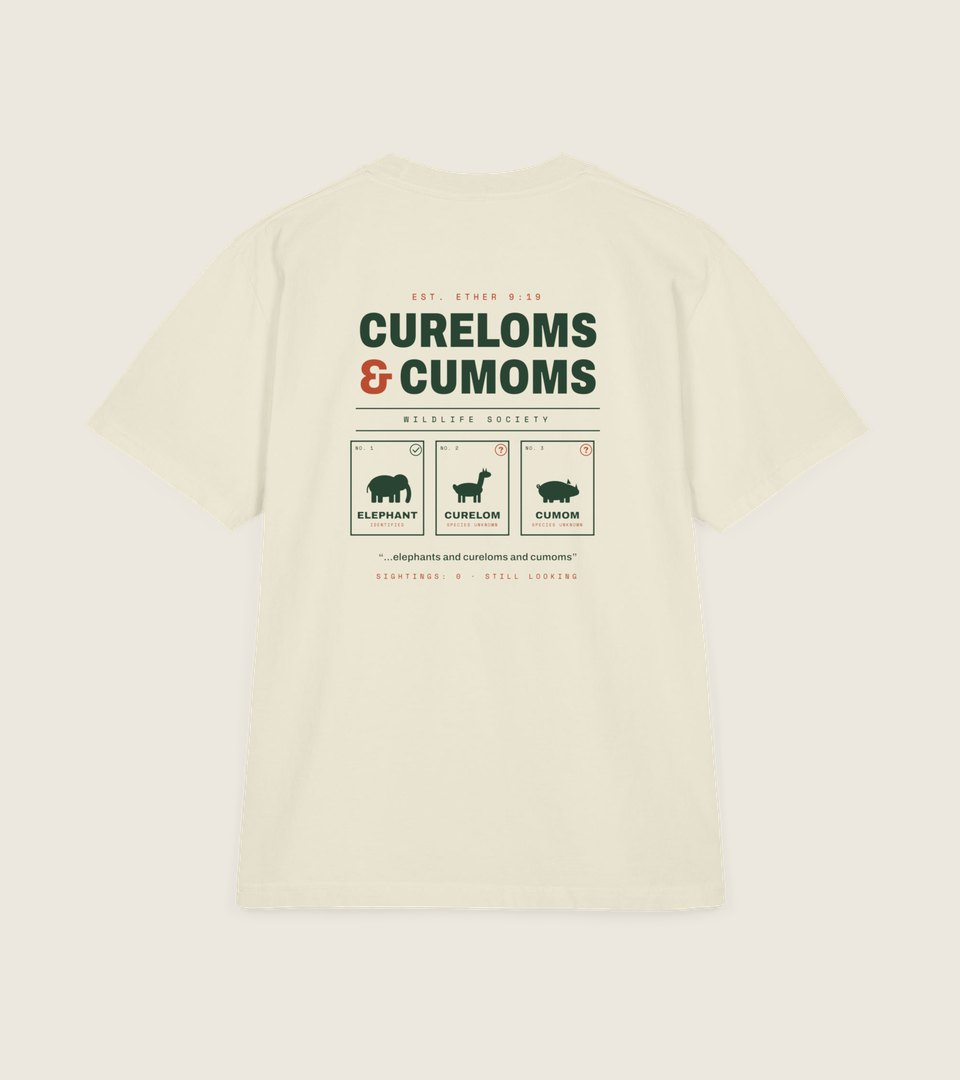
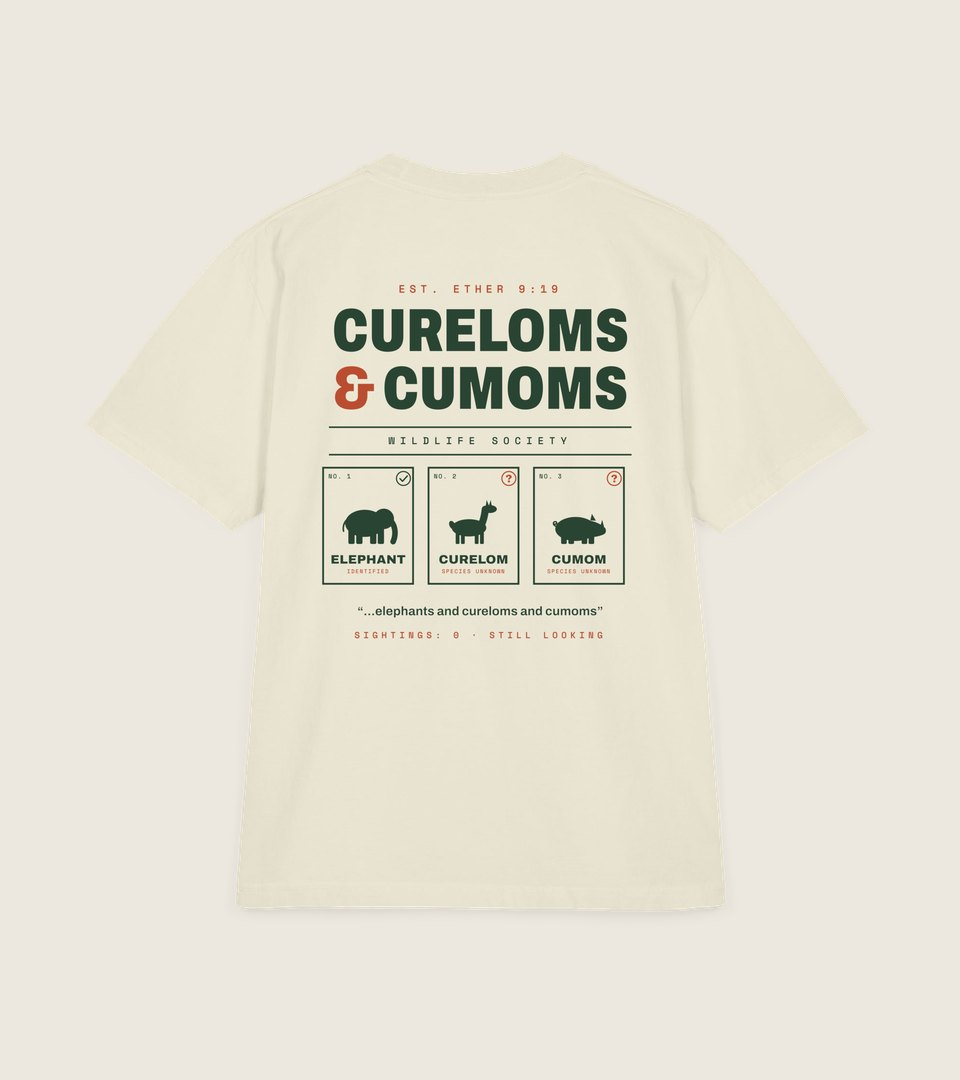
Bigger back prints and Glazed Green Stripling on the new design
Brings PR #5 onto the redesigned site:
- New Printful mockup photos showing the ~13 in wide back prints
  (already set in Printful: Liberty 13.2x10.25, Cureloms 13.2x15.47,
  Stripling 13.2x11.26 in).
- Stripling 2000 is now the Stanley/Stella Freestyler in Glazed Green:
  checkout uses the "Stripling 2000 Tee (Green)" Printful variant IDs
  (checked against Printful), and color, fit and blank text is updated on
  the home, About, terms and policies pages and llms.txt.

Claude-Session: https://claude.ai/code/session_01KgABHrvNHGy3TN6boPUamt

Changed region(s): [[0.3438, 0.2444, 0.6562, 0.5806]]

diff --git a/public/index.html b/public/index.html
@@ -112,7 +112,7 @@
       "@type": "Product",
       "@id": "https://rentcoat.co/#stripling",
       "name": "Stripling 2000 Heavyweight Tee",
-      "description": "Varsity-style back print of the 2,000 stripling warriors with the quote \"We do not doubt our mothers knew it\" (Alma 56:48). Shaka Wear SHGDD heavyweight garment-dyed cotton in Black.",
+      "description": "Varsity-style back print of the 2,000 stripling warriors with the quote \"We do not doubt our mothers knew it\" (Alma 56:48). Stanley/Stella Freestyler heavyweight organic cotton in Glazed Green.",
       "image": [
         "https://rentcoat.co/images/stripling-back.jpg",
         "https://rentcoat.co/images/stripling-front.jpg"
@@ -120,7 +120,7 @@
       "brand": {
         "@id": "https://rentcoat.co/#org"
       },
-      "color": "Black",
+      "color": "Glazed Green",
       "material": "100% cotton",
       "offers": {
         "@type": "Offer",
@@ -309,7 +309,7 @@
           "name": "How do Rent Coat Co. tees fit?",
           "acceptedAnswer": {
             "@type": "Answer",
-            "text": "They are Shaka Wear SHGDD tees: 7.5 oz heavyweight cotton, garment-dyed, with a boxy, oversized, drop-shoulder fit. Sizes S to 2XL. Order your usual size for the boxy look, or size down for a closer fit. A medium is about 24 3/4 inches across the chest and 27 1/4 inches long."
+            "text": "Title of Liberty and Cureloms & Cumoms are Shaka Wear SHGDD tees: 7.5 oz heavyweight cotton, garment-dyed, with a boxy, oversized, drop-shoulder fit. Order your usual size for the boxy look, or size down for a closer fit. A medium is about 24 3/4 inches across the chest and 27 1/4 inches long. Stripling 2000 is a Stanley/Stella Freestyler in Glazed Green: 7 oz heavyweight organic cotton with a classic, true-to-size fit. A medium is about 22 3/4 inches across the chest and 30 inches long. All shirts come in S to 2XL."
           }
         },
         {
@@ -737,8 +737,8 @@ footer .wrap { padding-block: 56px 40px }
     </article>
     <article class="card" id="stripling">
       <div class="shot">
-        <img src="images/stripling-back.jpg" width="1600" height="1800" loading="lazy" alt="Stripling 2000 tee in Black, back print">
-        <img class="alt" src="images/stripling-front.jpg" width="1600" height="1800" loading="lazy" alt="Stripling 2000 tee in Black, front chest print">
+        <img src="images/stripling-back.jpg" width="1600" height="1800" loading="lazy" alt="Stripling 2000 tee in Glazed Green, back print">
+        <img class="alt" src="images/stripling-front.jpg" width="1600" height="1800" loading="lazy" alt="Stripling 2000 tee in Glazed Green, front chest print">
         <span class="tag eyebrow">Varsity</span>
         <div class="flip" role="group" aria-label="Show side">
           <button type="button" aria-pressed="true" data-side="back">Back</button>
@@ -747,7 +747,7 @@ footer .wrap { padding-block: 56px 40px }
       </div>
       <div class="info">
         <div class="row"><h3>Stripling 2000</h3><span class="price">$40</span></div>
-        <span class="eyebrow meta"><span class="swatch"><i style="background:#1B1B1B" aria-hidden="true"></i>Black</span><a class="ref" href="https://www.churchofjesuschrist.org/study/scriptures/bofm/alma/56?lang=eng&amp;id=p48#p48" target="_blank" rel="noopener">Alma 56:48</a></span>
+        <span class="eyebrow meta"><span class="swatch"><i style="background:#1C4644" aria-hidden="true"></i>Glazed Green</span><a class="ref" href="https://www.churchofjesuschrist.org/study/scriptures/bofm/alma/56?lang=eng&amp;id=p48#p48" target="_blank" rel="noopener">Alma 56:48</a></span>
         <p class="blurb">Varsity arch in cream and gold for the 2,000 young warriors. “We do not doubt our mothers knew it.”</p>
         <div class="size-wrap">
           <fieldset class="sizes"><legend>Size</legend><label><input type="radio" name="size-stripling" value="S"><span>S</span></label><label><input type="radio" name="size-stripling" value="M" checked><span>M</span></label><label><input type="radio" name="size-stripling" value="L"><span>L</span></label><label><input type="radio" name="size-stripling" value="XL"><span>XL</span></label><label><input type="radio" name="size-stripling" value="2XL"><span>2XL</span></label></fieldset>
@@ -815,16 +815,16 @@ footer .wrap { padding-block: 56px 40px }
   <div class="intro">
     <p class="eyebrow kicker">The blank</p>
     <h2 class="big" id="fit-title">Fit <em>&amp;</em> feel</h2>
-    <p>Boxy and oversized with dropped shoulders and a slightly shorter body. Order your usual size for the boxy look, or size down for a closer fit.</p>
+    <p>Title of Liberty and Cureloms &amp; Cumoms are boxy and oversized, with dropped shoulders and a slightly shorter body: order your usual size for the boxy look, or size down for a closer fit. Stripling 2000 has a classic, true-to-size fit.</p>
   </div>
   <dl class="specs">
-    <div><dt>Blank</dt><dd>Shaka Wear SHGDD</dd></div>
-    <div><dt>Weight</dt><dd>7.5 oz, 100% cotton</dd></div>
-    <div><dt>Finish</dt><dd>Garment-dyed, worn-in feel</dd></div>
+    <div><dt>Liberty &amp; Cureloms</dt><dd>Shaka Wear SHGDD · 7.5 oz cotton, garment-dyed</dd></div>
+    <div><dt>Stripling 2000</dt><dd>Stanley/Stella Freestyler · 7 oz organic cotton</dd></div>
+    <div><dt>Boxy fit · medium</dt><dd>24¾ in chest · 27¼ in long</dd></div>
+    <div><dt>Classic fit · medium</dt><dd>22¾ in chest · 30 in long</dd></div>
+    <div><dt>Back prints</dt><dd>About 13 in wide</dd></div>
     <div><dt>Sizes</dt><dd>Unisex S – 2XL</dd></div>
-    <div><dt>Medium</dt><dd>24¾ in chest · 27¼ in long</dd></div>
     <div><dt>Care</dt><dd>Inside out, cold wash, tumble dry low. Don't iron the print.</dd></div>
-    <div><dt>Made</dt><dd>Blank assembled in the USA from globally sourced materials</dd></div>
     <div><dt>Price</dt><dd>$40 · $43 for 2XL</dd></div>
   </dl>
 </div></section>
@@ -842,7 +842,7 @@ footer .wrap { padding-block: 56px 40px }
     <details><summary>Why can't I order on Sunday?</summary><p>Checkout pauses on Sundays (Eastern time) while a drop is open, because we keep Sunday as a day of rest. Your bag stays saved, so you can check out on Monday.</p></details>
     <details><summary>How do I pay?</summary><p>Checkout runs on Stripe, so you can pay with any major card, Apple Pay or Google Pay. Your card details go straight to Stripe and never touch our site. Tees are $40 ($43 for 2XL), and shipping is a flat $5.99 in the US.</p></details>
     <details><summary>What's a curelom?</summary><p>Nobody knows. Ether 9:19 lists cureloms and cumoms with elephants as animals that were useful to the Jaredites, and that's all the text says. Hence the Wildlife Society.</p></details>
-    <details><summary>How do the shirts fit?</summary><p>Boxy and oversized, with dropped shoulders and a slightly shorter body. Sizes S to 2XL. Order your usual size for the boxy look, or size down for a closer fit. A medium is about 24¾ inches across the chest and 27¼ inches long.</p></details>
+    <details><summary>How do the shirts fit?</summary><p>Title of Liberty and Cureloms &amp; Cumoms are boxy and oversized, with dropped shoulders and a slightly shorter body. Order your usual size for the boxy look, or size down for a closer fit. A medium is about 24¾ inches across the chest and 27¼ inches long. Stripling 2000 has a classic, true-to-size fit: order your usual size. A medium is about 22¾ inches across the chest and 30 inches long. All shirts come in S to 2XL.</p></details>
     <details><summary>Where does the name come from?</summary><p>From Alma 46:12–13 in the Book of Mormon. Captain Moroni “rent his coat,” wrote on it, fastened it to a pole, and called it the title of liberty.</p></details>
     <details><summary>Can I return or exchange?</summary><p>Because every shirt is printed for you, we can't take fit returns. If your shirt arrives damaged or misprinted, email a photo to <a href="mailto:rentcoat.co@gmail.com">rentcoat.co@gmail.com</a> within 30 days of delivery and we'll replace it free. <a href="policies.html">Shipping and returns</a>.</p></details>
   </div>
@@ -913,7 +913,7 @@ let closedSundays = true;
 
 const PRODUCTS = [
   { id: "liberty", name: "Title of Liberty", color: "Shadow", back: "images/liberty-back.jpg" },
-  { id: "stripling", name: "Stripling 2000", color: "Black", back: "images/stripling-back.jpg" },
+  { id: "stripling", name: "Stripling 2000", color: "Glazed Green", back: "images/stripling-back.jpg" },
   { id: "cureloms", name: "Cureloms & Cumoms", color: "Cream", back: "images/cureloms-back.jpg" },
 ];
 const SIZES = ["S", "M", "L", "XL", "2XL"];

diff --git a/public/about.html b/public/about.html
@@ -184,13 +184,13 @@ footer span { margin-left: auto }
 <section class="shirts-sec" id="shirts" aria-labelledby="shirts-title"><div class="wrap">
   <div class="head">
     <div><p class="eyebrow kicker">The shirts</p><h2 class="big" id="shirts-title">Every one starts with a verse</h2></div>
-    <p>Every Rent Coat Co. tee is a Shaka Wear SHGDD: 7.5 oz heavyweight cotton, garment-dyed for a broken-in feel, with a boxy, oversized, drop-shoulder fit in S to 2XL. Each shirt is printed for you after the drop closes.</p>
+    <p>Title of Liberty and Cureloms &amp; Cumoms are Shaka Wear SHGDD tees: 7.5 oz heavyweight cotton, garment-dyed, with a boxy, oversized, drop-shoulder fit. Stripling 2000 is a Stanley/Stella Freestyler in Glazed Green: 7 oz heavyweight organic cotton with a classic fit. All come in S to 2XL, and each shirt is printed for you after the drop closes.</p>
   </div>
   <ul class="shirts">
     <li><div class="pic"><img src="/images/liberty-back.jpg" width="1600" height="1800" loading="lazy" alt="Title of Liberty tee in Shadow, back print of a torn banner on a pole"></div>
       <div class="txt"><p class="eyebrow"><a href="https://www.churchofjesuschrist.org/study/scriptures/bofm/alma/46?lang=eng&amp;id=p12#p12" target="_blank" rel="noopener">Alma 46:12</a> · Shadow</p><h3>Title of Liberty</h3><p class="d">The flagship. A torn banner on a pole.</p></div></li>
-    <li><div class="pic"><img src="/images/stripling-back.jpg" width="1600" height="1800" loading="lazy" alt="Stripling 2000 tee in Black, varsity-style back print"></div>
-      <div class="txt"><p class="eyebrow"><a href="https://www.churchofjesuschrist.org/study/scriptures/bofm/alma/56?lang=eng&amp;id=p48#p48" target="_blank" rel="noopener">Alma 56:48</a> · Black</p><h3>Stripling 2000</h3><p class="d">Varsity print for the 2,000 stripling warriors: "We do not doubt our mothers knew it."</p></div></li>
+    <li><div class="pic"><img src="/images/stripling-back.jpg" width="1600" height="1800" loading="lazy" alt="Stripling 2000 tee in Glazed Green, varsity-style back print"></div>
+      <div class="txt"><p class="eyebrow"><a href="https://www.churchofjesuschrist.org/study/scriptures/bofm/alma/56?lang=eng&amp;id=p48#p48" target="_blank" rel="noopener">Alma 56:48</a> · Glazed Green</p><h3>Stripling 2000</h3><p class="d">Varsity print for the 2,000 stripling warriors: "We do not doubt our mothers knew it."</p></div></li>
     <li><div class="pic"><img src="/images/cureloms-back.jpg" width="1600" height="1800" loading="lazy" alt="Cureloms and Cumoms Wildlife Society tee in Cream, field-guide back print"></div>
       <div class="txt"><p class="eyebrow"><a href="https://www.churchofjesuschrist.org/study/scriptures/bofm/ether/9?lang=eng&amp;id=p19#p19" target="_blank" rel="noopener">Ether 9:19</a> · Cream</p><h3>Cureloms &amp; Cumoms Wildlife Society</h3><p class="d">A field guide to the animals nobody can identify.</p></div></li>
   </ul>

diff --git a/public/terms.html b/public/terms.html
@@ -136,7 +136,7 @@ a { color: inherit }
   <p>Every shirt is made to order, so we don't take returns or exchanges for fit or a change of mind. If your shirt arrives damaged, misprinted, or isn't what you ordered, email a photo within 30 days of delivery and we'll replace it free, or refund you if we can't. This doesn't limit any rights you have under the law.</p>
 
   <h2 id="products">About the shirts</h2>
-  <p>Our tees are Shaka Wear SHGDD: 100% cotton, assembled in the USA from globally sourced materials, and printed to order. They're garment-dyed, so each shirt's color can vary a little, and colors on your screen may look different in person. The fit is boxy and oversized; use the fit notes on the site.</p>
+  <p>Title of Liberty and Cureloms &amp; Cumoms are Shaka Wear SHGDD tees: 100% cotton, assembled in the USA from globally sourced materials, and garment-dyed, so each shirt's color can vary a little. Their fit is boxy and oversized. Stripling 2000 is a Stanley/Stella Freestyler: 100% organic cotton with a classic fit. Every shirt is printed to order, and colors on your screen may look different in person. Use the fit notes on the site.</p>
 
   <h2 id="designs">Our designs</h2>
   <p>The Rent Coat Co. name, logo, shirt designs, photos and text on this site belong to Rent Coat Co. Please don't copy, print, or sell them without our written permission. Sharing photos of your shirt and tagging us is always welcome.</p>

diff --git a/public/policies.html b/public/policies.html
@@ -114,7 +114,7 @@ a { color: inherit }
   <p>Until the drop closes, email us to change your size or address, or to cancel for a full refund. After it closes, your shirt goes to print and the order can't be changed or cancelled, though we can still update the address until it ships.</p>
 
   <h2 id="returns">Returns and replacements</h2>
-  <p>Because every shirt is made to order, we can't take returns or exchanges for fit or a change of mind. Check the fit notes before you order: the tees are boxy and oversized, so order your usual size for that look or size down for a closer fit.</p>
+  <p>Because every shirt is made to order, we can't take returns or exchanges for fit or a change of mind. Check the fit notes before you order: Title of Liberty and Cureloms &amp; Cumoms are boxy and oversized (order your usual size for that look or size down for a closer fit), and Stripling 2000 has a classic, true-to-size fit.</p>
   <p>If your shirt arrives damaged, misprinted, or isn't what you ordered, email a photo to <a href="mailto:rentcoat.co@gmail.com">rentcoat.co@gmail.com</a> within 30 days of delivery and we'll replace it free, or refund you if we can't.</p>
 
   <h2 id="lost">Lost or returned packages</h2>
